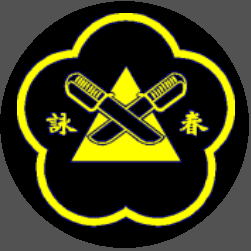
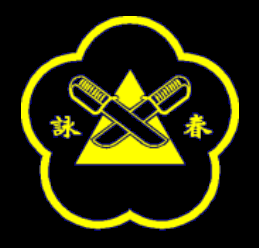
fix: fixed home symbol for nav bar so displayed rounded

diff --git a/assets/css/style.css b/assets/css/style.css
@@ -50,6 +50,11 @@ p {
 
 .navbar-brand {
     margin-top: 2px;
+    border-radius: 100%;
+}
+
+.navbar-brand img {
+    border-radius: 100%;
 }
 
 .nav-link {
